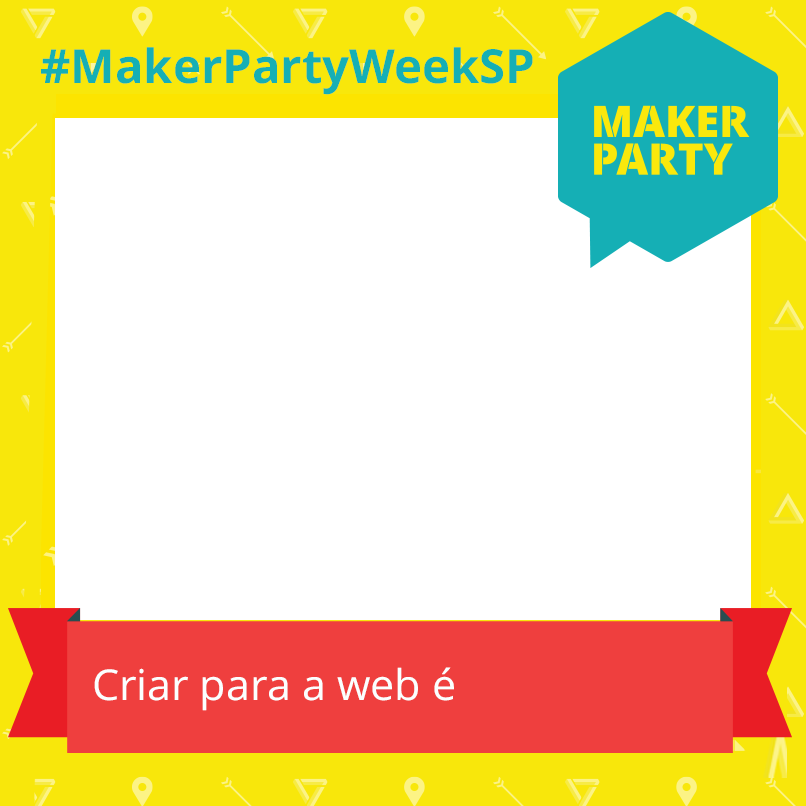
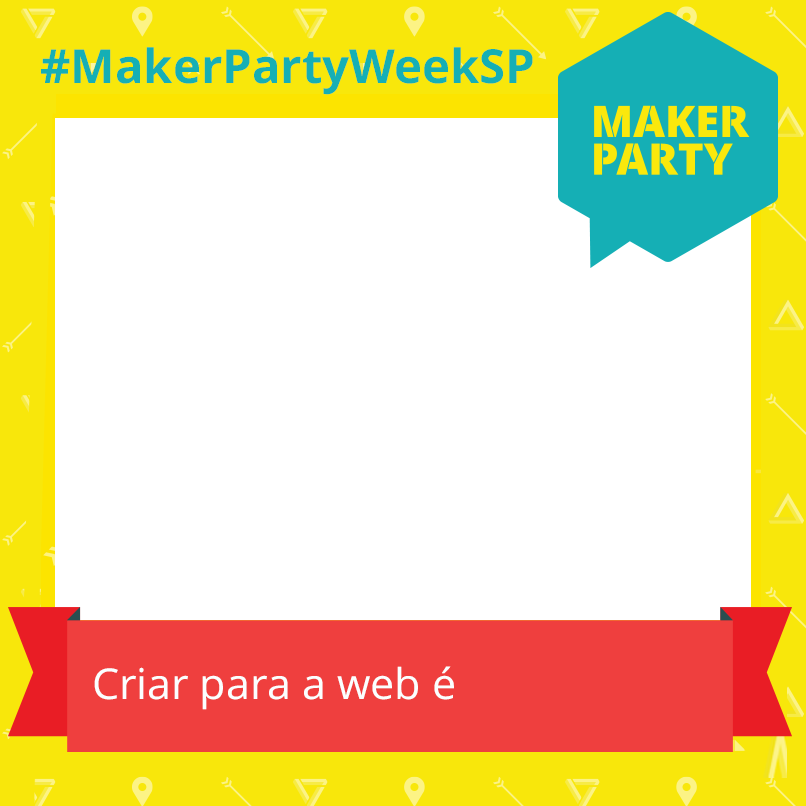
wip

diff --git a/js/app.js b/js/app.js
@@ -129,7 +129,7 @@
       word = document.querySelector('#myfirefox').value;
       ctx.font="32px Open Sans";
       ctx.fillStyle = "#FFFFFF";
-      ctx.fillText(word, 355, 543);
+      ctx.fillText(word, 355, 526);
   }
 
   function timer(time,update,complete) {

diff --git a/css/main.css b/css/main.css
@@ -72,7 +72,7 @@ p {
 
 #myfirefox {
     position: relative;
-    bottom: 27px;
+    bottom: 28px;
     left: 140px;
     width: 180px;
     font-family: "Open Sans";
